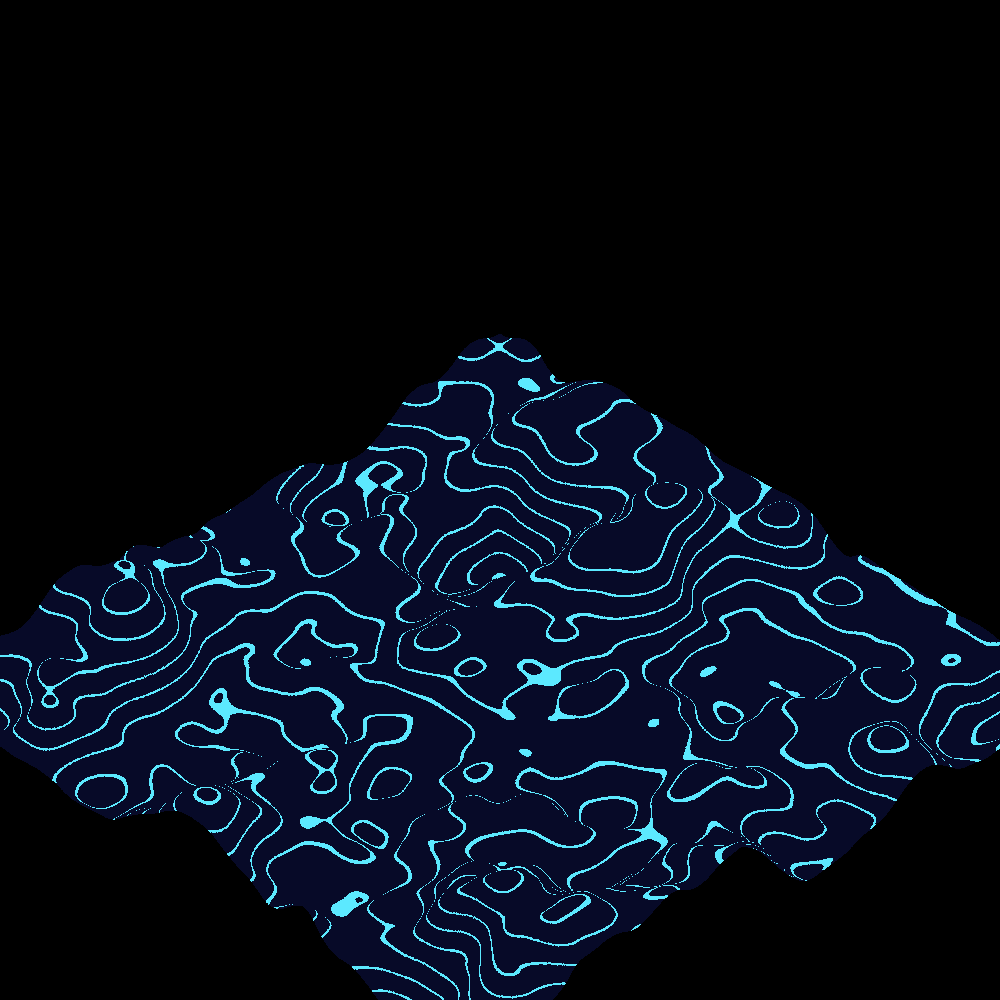
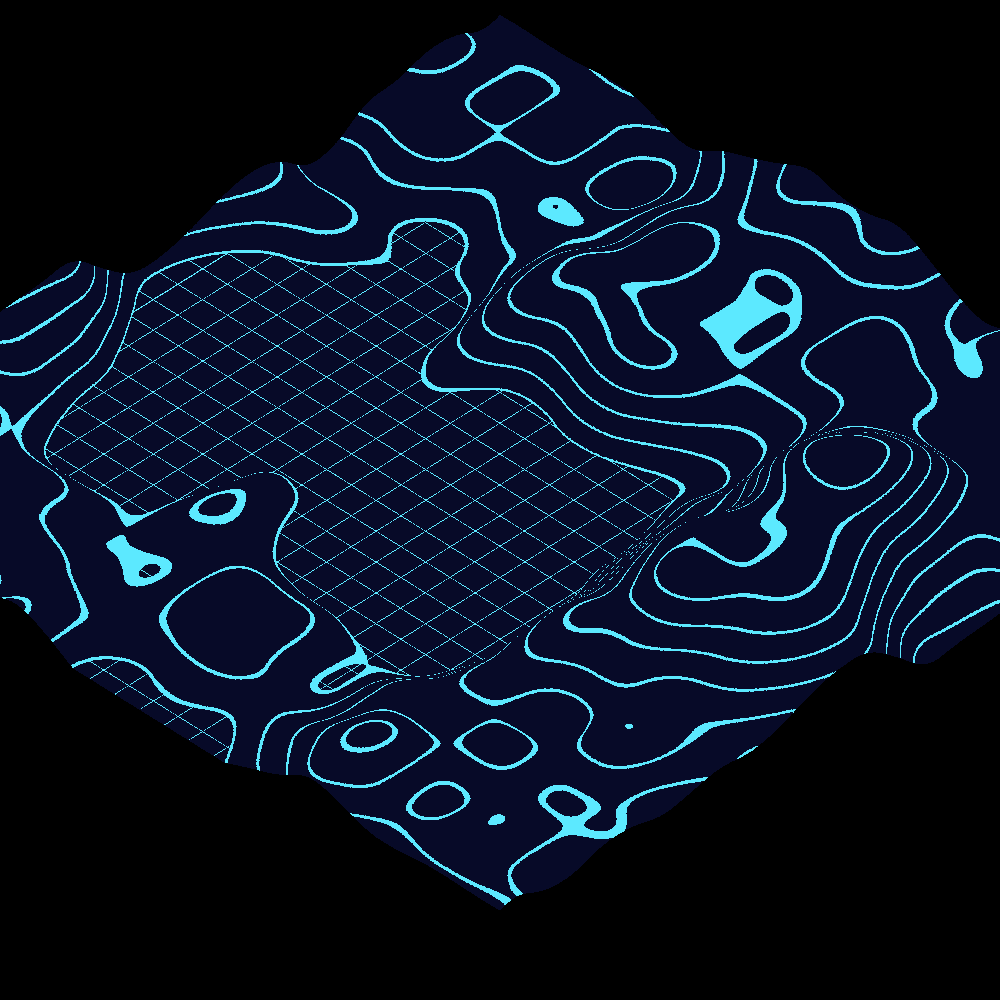
Ground level finished

diff --git a/src/main/java/com/victor/mountains/renderer/Renderer.java b/src/main/java/com/victor/mountains/renderer/Renderer.java
@@ -15,84 +15,116 @@ import static java.lang.Math.sin;
 public class Renderer {
     private static final int LIGHT_BLUE = 6089215;
     private static final int DARK_BLUE = 461352;
-    private static final double SEPARATION = 0.075;
-    private static final double LINE_WIDTH = 0.0075;
+    private static final double SEPARATION = 0.050;
+    private static final double LINE_WIDTH = 0.0050;
+    private static final double GROUND = 0.30;
+    private static final double ATENUATION = 3;
+    
+    private static final double GRID_WIDTH = 0.0010;
+    private static final double GRID_SEPARATION = 0.035;
     
     private final Vector3[][] points;
     private final int[][] colors;
     public int[][] buffer;
     public double[][] zbuffer;
+    public double angle;
     private final int width;
     private final int height;
     
-    public Renderer(InterpolatedNoise noise, int width, int height) {
+    public Renderer(InterpolatedNoise noise, int width, int height, double angle) {
         this.points = new Vector3[height*2][width*2];
         this.colors = new int[height*2][width*2];
         this.width = width;
         this.height = height;
+        this.angle = angle;
         
         double x, y, z;
         for (int i = 0; i < width*2; i++) {
             for(int j = 0; j < height*2; j++) {
-                x = ((double) i)/((double) width) - 0.5;
-                y = ((double) j)/((double) height) - 0.5;
+                x = ((double) i)/((double) width*2) - 0.5;
+                y = ((double) j)/((double) height*2) - 0.5;
                 z = noise.interpolatedNoise(x, y);
-                
-                this.points[j][i] = new Vector3(x, y, (z-0.5)/2);
-                this.colors[j][i] = 
+                if (z >= Renderer.GROUND) {
+                    this.points[j][i] = new Vector3(
+                            x,
+                            y,
+                            (z - (1 - Renderer.GROUND)/2)/Renderer.ATENUATION
+                    );
+                    this.colors[j][i] = 
                         ((z % Renderer.SEPARATION) < Renderer.LINE_WIDTH) ?
                         Renderer.LIGHT_BLUE :
+                        Renderer.DARK_BLUE;   
+                } else {
+                    this.points[j][i] = new Vector3(
+                            x,
+                            y,
+                            (Renderer.GROUND - (1 - Renderer.GROUND)/2)/Renderer.ATENUATION
+                    );
+                    this.colors[j][i] = 
+                        (((x+0.5) % Renderer.GRID_SEPARATION) < Renderer.GRID_WIDTH) ||
+                        (((y+0.5) % Renderer.GRID_SEPARATION) < Renderer.GRID_WIDTH)?
+                        Renderer.LIGHT_BLUE :
                         Renderer.DARK_BLUE;
+                }
             }
         }
     }
     
-    public void renderToBuffer(double angle, double scale) {
+    public void renderToBuffer() {
+        Vector3 v;
+        
         this.zbuffer = new double[this.height][this.width];
         this.buffer = new int[this.height][this.width];
         
-        double c, s;
-        int x, y;
-        Vector3 v;
+        Matrix3 q = this.transformMatrix();
         
-        c = cos(angle);
-        s = sin(angle);
+        for (int i = 0; i < this.width*2; i++) {
+            for (int j = 0; j < this.height*2; j++) {
+                v = q.mul(this.points[j][i]);
+                this.drawToBuffer(v, this.colors[j][i]);
+            }
+        }
+    }
+    
+    public void increseAngle(double a) {
+        this.angle += a;
+    }
+    
+    private void drawToBuffer(Vector3 v, int col) {
+        int x, y;
+        
+        x = (int) ((v.x + 0.5) * (double) this.width);
+        y = (int) ((v.y + 0.5) * (double) this.height);
+
+        v.z += 10;
+
+        if (0 <= x && x < this.width && 0 <= y && y < this.height) {
+            if (v.z >= this.zbuffer[y][x]) {
+                this.zbuffer[y][x] = v.z;
+                this.buffer[y][x] = col;
+            }
+        }
+    }
+    
+    private Matrix3 transformMatrix() {
+        double c, s;
+        
+        c = cos(this.angle);
+        s = sin(this.angle);
         
         Matrix3 m = new Matrix3(
-                0.707, -0.707, 0,
-                0.707, 0.707, 0,
+                c, -s, 0,
+                s, c, 0,
                 0, 0, 1
         );
         
         Matrix3 n = new Matrix3(
                 1, 0, 0,
-                0, c, -s,
-                0, s, c
+                0, 0.6234, -0.7818,
+                0, 0.7818, 0.6234
         );
         
-        Matrix3 p = new Matrix3(
-                scale, 0, 0,
-                0, scale, 0,
-                0, 0, scale
-        );
-        
-        Matrix3 q = n.mul(m).mul(p);
-        
-        for (int i = 0; i < this.width*2; i++) {
-            for (int j = 0; j < this.height*2; j++) {
-                v = q.mul(this.points[j][i]);
-                x = (int) ((v.x + 0.5) * (double) this.width);
-                y = (int) ((v.y + 0.5) * (double) this.height);
-                
-                v.z += 10;
-                
-                if (0 <= x && x < this.width && 0 <= y && y < this.height) {
-                    if (v.z >= this.zbuffer[y][x]) {
-                        this.zbuffer[y][x] = v.z;
-                        this.buffer[y][x] = this.colors[j][i];
-                    }
-                }
-            }
-        }
+        //  P -> M -> N
+        return n.mul(m);
     }
 }

diff --git a/src/main/java/com/victor/mountains/Mountains.java b/src/main/java/com/victor/mountains/Mountains.java
@@ -6,6 +6,8 @@ package com.victor.mountains;
 
 import com.victor.mountains.interpolatedNoise.InterpolatedNoise;
 import com.victor.mountains.renderer.Renderer;
+import java.awt.event.KeyEvent;
+import java.awt.event.KeyListener;
 import java.awt.image.BufferedImage;
 import java.io.File;
 import java.io.IOException;
@@ -30,30 +32,60 @@ public class Mountains {
         );
         
         InterpolatedNoise noise = new InterpolatedNoise(
-                12.9898,
-                78.233,
-                43758.5453123,
+                14.9898,
+                87.233,
+                478758.5453123,
                 3,
-                2.5
+                6
         );
         
-        Renderer renderer = new Renderer(noise, Mountains.WIDTH, Mountains.HEIGHT);
-        renderer.renderToBuffer(Math.PI/3.5, 0.4);
+        Renderer renderer = new Renderer(
+                noise,
+                Mountains.WIDTH,
+                Mountains.HEIGHT,
+                Math.PI/4
+        );
         
+        renderer.renderToBuffer();
         for (int i = 0; i < Mountains.WIDTH; i++) {
-            for (int j = 0; j < Mountains.HEIGHT; j++) {
-                im.setRGB(i, j, renderer.buffer[j][i]);
-            }
+                for (int j = 0; j < Mountains.HEIGHT; j++) {
+                    im.setRGB(i, j, renderer.buffer[j][i]);
+                }
         }
         
-        File outputfile = new File("test.png");
-        ImageIO.write(im, "png", outputfile);
+        //File outputfile = new File("test.png");
+        //ImageIO.write(im, "png", outputfile);
         
+        JLabel label = new JLabel(new ImageIcon(im));
         JFrame frame = new JFrame("Test frame");
-        frame.add(new JLabel(new ImageIcon(im)));
+        frame.add(label);
         //hello.setBounds(500, 500, 500, 500);
         frame.pack();
         frame.setVisible(true);
         frame.setDefaultCloseOperation(JFrame.EXIT_ON_CLOSE);
+        frame.addKeyListener(new KeyListener() {
+            @Override
+            public void keyPressed(KeyEvent e) {
+                if(e.getKeyCode() == KeyEvent.VK_UP) {
+                    renderer.increseAngle(0.1);
+                    renderer.renderToBuffer();
+                    for (int i = 0; i < Mountains.WIDTH; i++) {
+                        for (int j = 0; j < Mountains.HEIGHT; j++) {
+                            im.setRGB(i, j, renderer.buffer[j][i]);
+                        }
+                    }
+                    label.repaint();
+                }
+            }
+
+            @Override
+            public void keyTyped(KeyEvent ke) {
+            }
+
+            @Override
+            public void keyReleased(KeyEvent ke) {
+            }
+        });
+        
     }
 }
